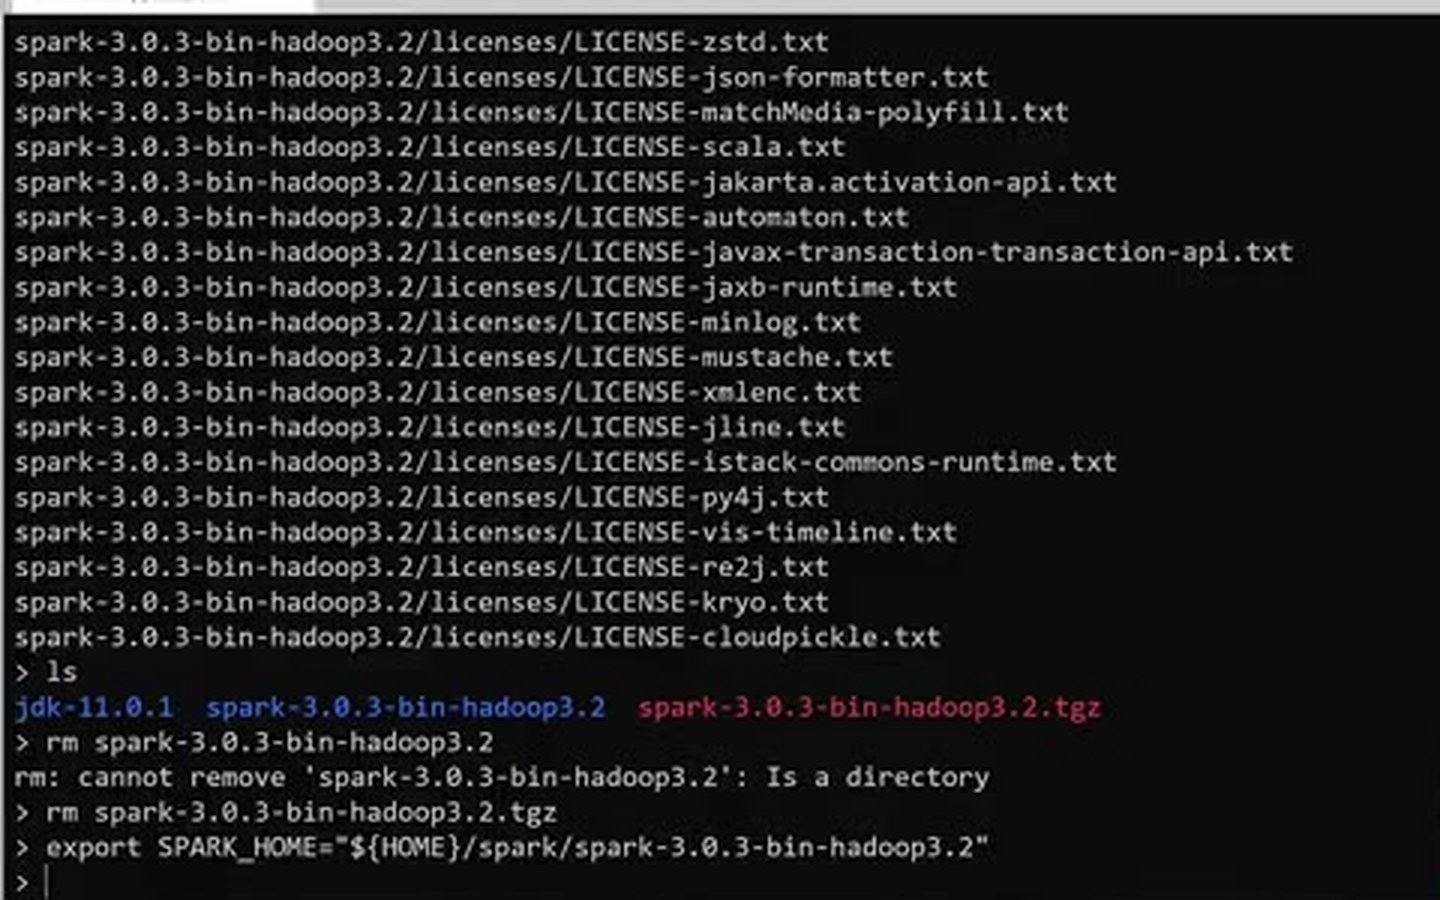
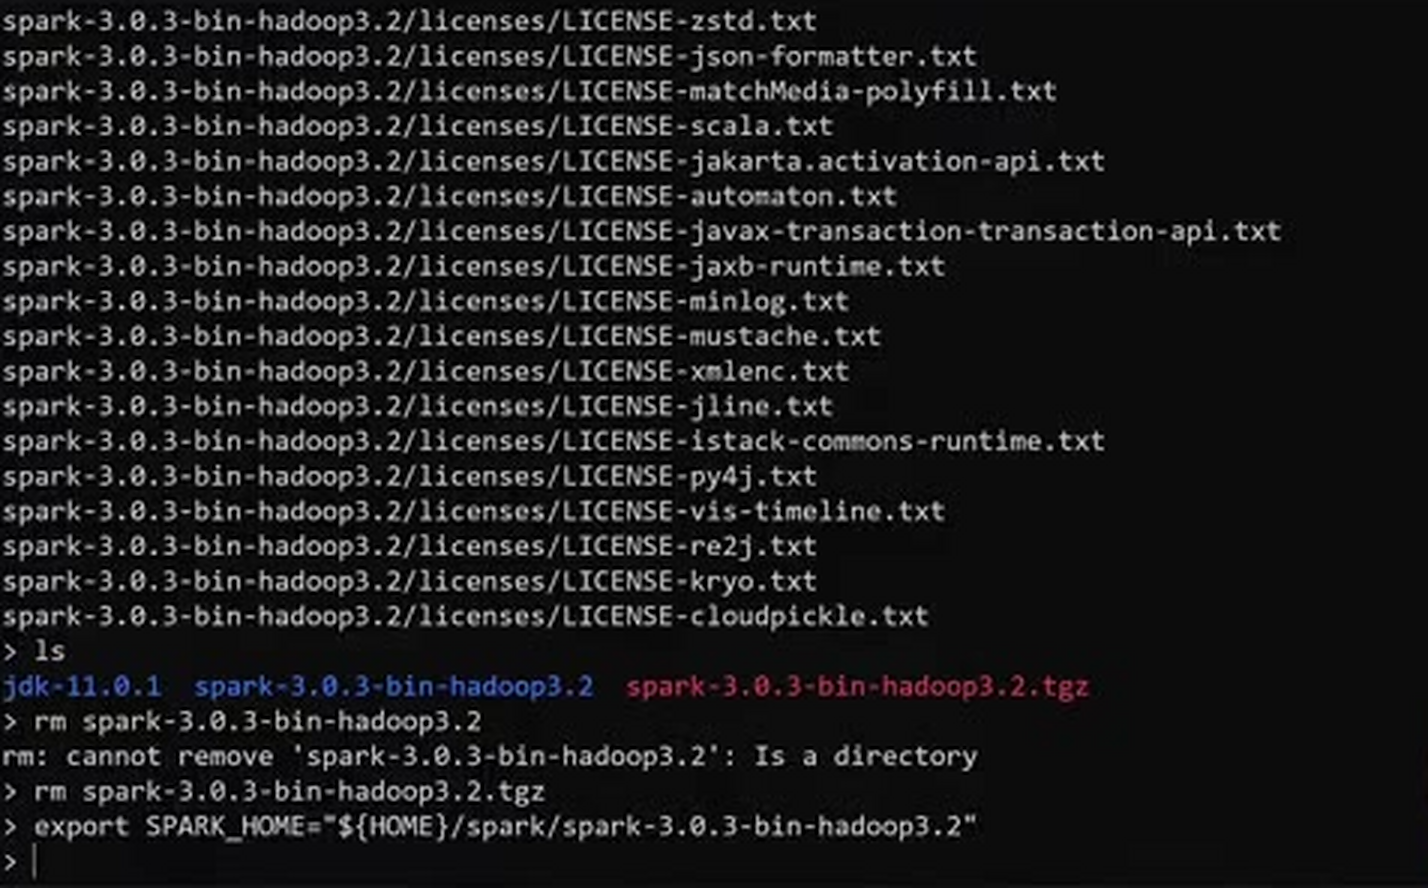
Tighten crisp Spark screenshot crops

diff --git a/cohorts/2027/06-batch/06-preparing-taxi-data.md b/cohorts/2027/06-batch/06-preparing-taxi-data.md
@@ -41,12 +41,12 @@ borrowed it:
 FMONTH=`printf "%02d" ${MONTH}`
 ```
 
-![The shell formats the month number with printf before building URLs](images/06-preparing-taxi-data-03-printf-cropped.png)
+![The shell formats the month number with printf before building URLs](images/06-preparing-taxi-data-03-printf-crisp.png)
 
 With that we can assemble the URL for each month and check it with `echo`
 before actually downloading anything:
 
-![The generated download script lists the monthly TLC URLs](images/06-preparing-taxi-data-02-url-list-cropped.png)
+![The generated download script lists the monthly TLC URLs](images/06-preparing-taxi-data-02-url-list-crisp.png)
 
 For each file we also build the local path: `data/raw/<taxi type>/<year>/<month>`,
 so every month gets its own folder. We create the folder with `mkdir -p`
@@ -82,12 +82,12 @@ with `zcat` - the same as `cat`, but for gzipped files:
 zcat data/raw/yellow/2021/01/yellow_tripdata_2021_01.csv.gz | head -n 10
 ```
 
-![zcat prints the first rows of the compressed yellow taxi CSV](images/06-preparing-taxi-data-04-zcat-cropped.png)
+![zcat prints the first rows of the compressed yellow taxi CSV](images/06-preparing-taxi-data-04-zcat-crisp.png)
 
 And `tree` shows us the folder structure we ended up with: for each taxi
 type and year, one folder per month with a compressed CSV inside:
 
-![tree shows the raw taxi files organized by taxi type, year, and month](images/06-preparing-taxi-data-05-tree-raw-cropped.png)
+![tree shows the raw taxi files organized by taxi type, year, and month](images/06-preparing-taxi-data-05-tree-raw-crisp.png)
 
 ## Defining the schema
 
@@ -107,7 +107,7 @@ We can point to a folder (or even use `*` to read the whole year) - Spark
 will read all files in it. If we print the schema now, we see the column
 names, but everything is a string:
 
-![Spark infers the raw taxi CSV columns as strings](images/06-preparing-taxi-data-06-schema-strings-cropped.png)
+![Spark infers the raw taxi CSV columns as strings](images/06-preparing-taxi-data-06-schema-strings-crisp.png)
 
 The way we inferred types before: read the same file with pandas, which
 figures out the types for us. Because pandas can read gzipped files directly,
@@ -172,7 +172,7 @@ them. We can watch this in the Spark UI: first only one task runs (one
 executor going through the CSV file), which then writes the results to four
 temporary files that end up on disk:
 
-![Spark UI shows the one-task read and parquet write job](images/06-preparing-taxi-data-07-spark-ui-one-task-cropped.png)
+![Spark UI shows the one-task read and parquet write job](images/06-preparing-taxi-data-07-spark-ui-one-task-crisp.png)
 
 We run this for all four combinations: green and yellow, 2020 and 2021.
 
@@ -181,7 +181,7 @@ We run this for all four combinations: green and yellow, 2020 and 2021.
 Looking at `data/pq` with `tree`, each month now has four parquet part-files
 (the result of the repartition) plus a `_SUCCESS` marker:
 
-![tree shows the parquet output partitioned by taxi type and month](images/06-preparing-taxi-data-08-tree-pq-cropped.png)
+![tree shows the parquet output partitioned by taxi type and month](images/06-preparing-taxi-data-08-tree-pq-crisp.png)
 
 Comparing sizes with `ls -lh`: the compressed yellow CSV for January 2020 is
 111 MB, and the parquet version is actually slightly bigger - gzip compresses

diff --git a/cohorts/2027/06-batch/07-sql-with-spark.md b/cohorts/2027/06-batch/07-sql-with-spark.md
@@ -33,7 +33,7 @@ df_green = spark.read.parquet('data/pq/green/*/*')
 df_yellow = spark.read.parquet('data/pq/yellow/*/*')
 ```
 
-![The notebook reads the green and yellow parquet datasets](images/07-sql-with-spark-01-read-parquet-cropped.png)
+![The notebook reads the green and yellow parquet datasets](images/07-sql-with-spark-01-read-parquet-crisp.png)
 
 The two schemas are similar but not the same. Some fields are shared, like
 `fare_amount` and `congestion_surcharge`, but green has fields that yellow
@@ -47,7 +47,7 @@ sets:
 set(df_green.columns) & set(df_yellow.columns)
 ```
 
-![The notebook lists the columns shared by the green and yellow DataFrames](images/07-sql-with-spark-02-common-columns-cropped.png)
+![The notebook lists the columns shared by the green and yellow DataFrames](images/07-sql-with-spark-02-common-columns-crisp.png)
 
 One problem: the pickup and dropoff time columns are named differently -
 `lpep_pickup_datetime` in green and `tpep_pickup_datetime` in yellow. We
